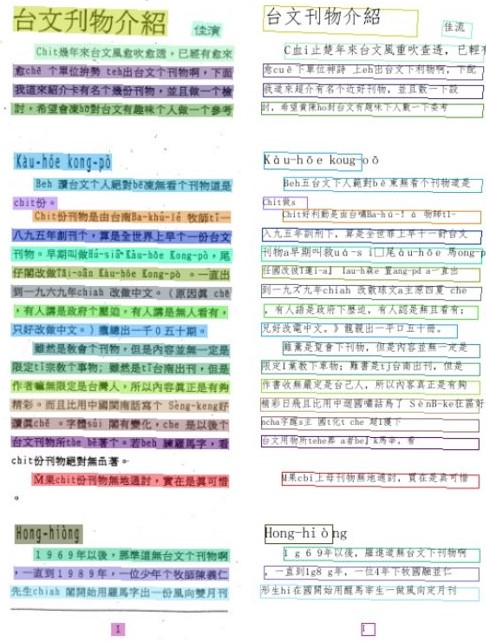
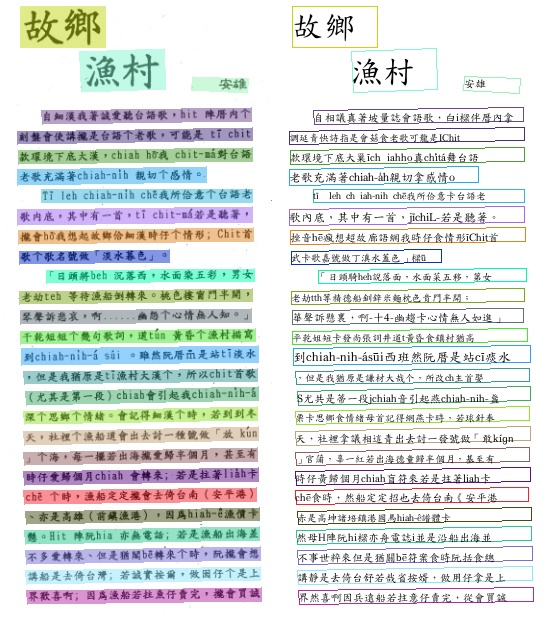
update

diff --git a/README.md b/README.md
@@ -171,7 +171,7 @@ python tools/infer/predict_system.py --det_model_dir="./det_inference" --rec_mod
 
 ![image](images/result_HAN_LO.jpg "漢羅")
 
-<!-- ![image](images/result_POJ.jpg "白話字") -->
+![image](images/result_POJ.jpg "白話字")
 
 ## Reference
 
